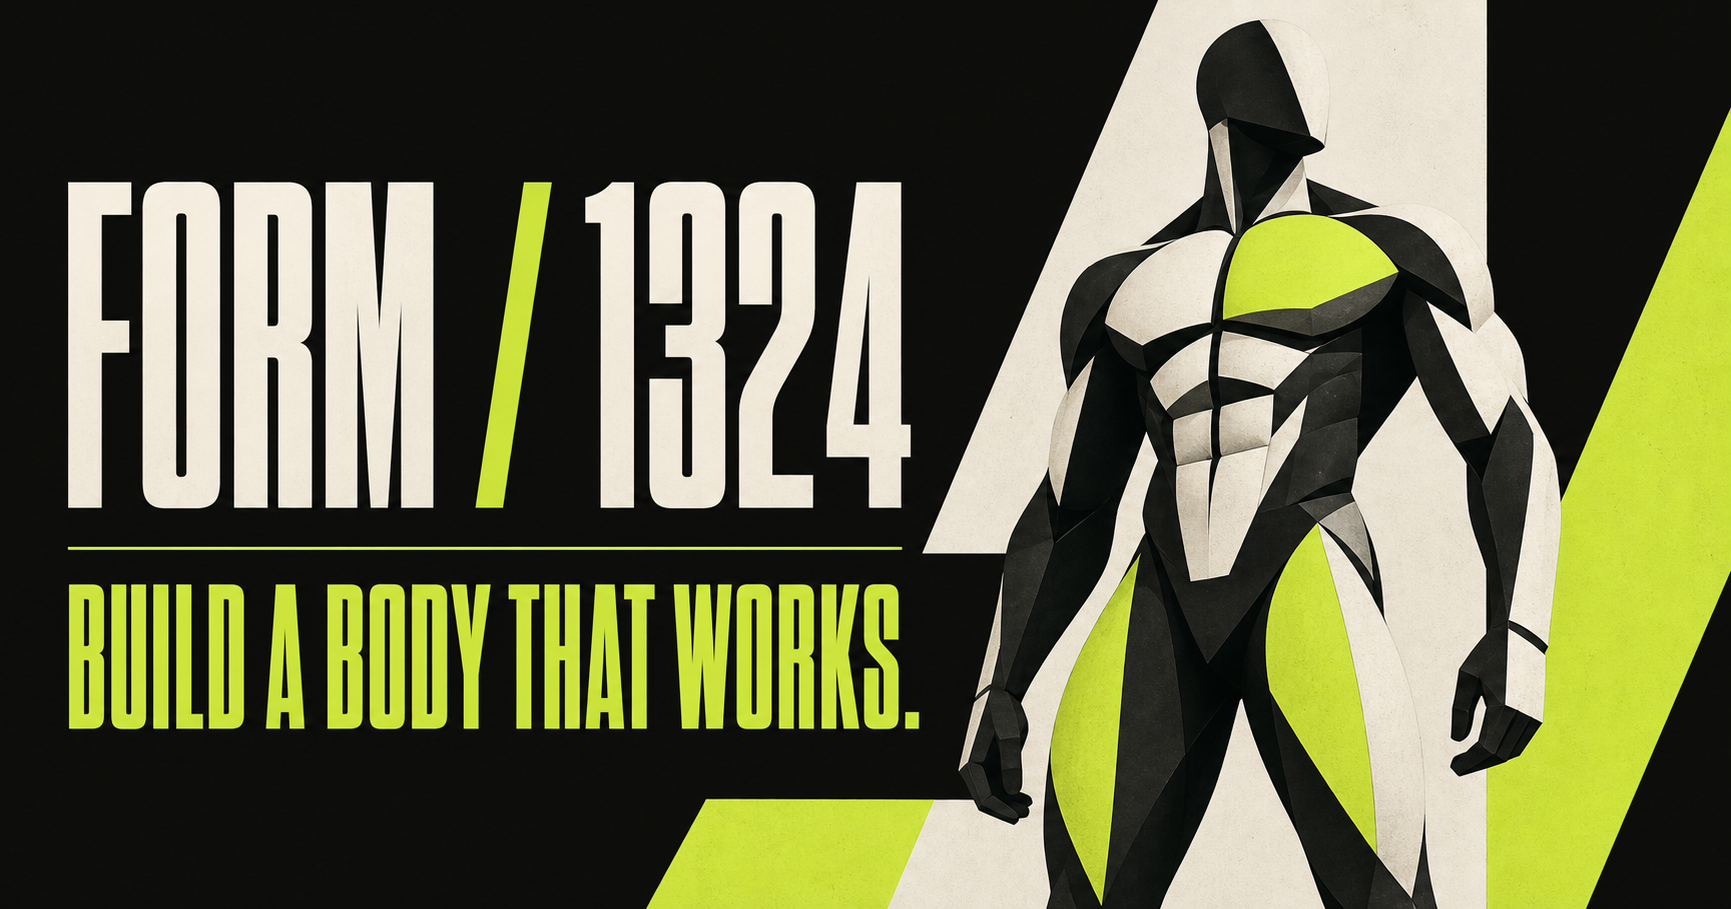
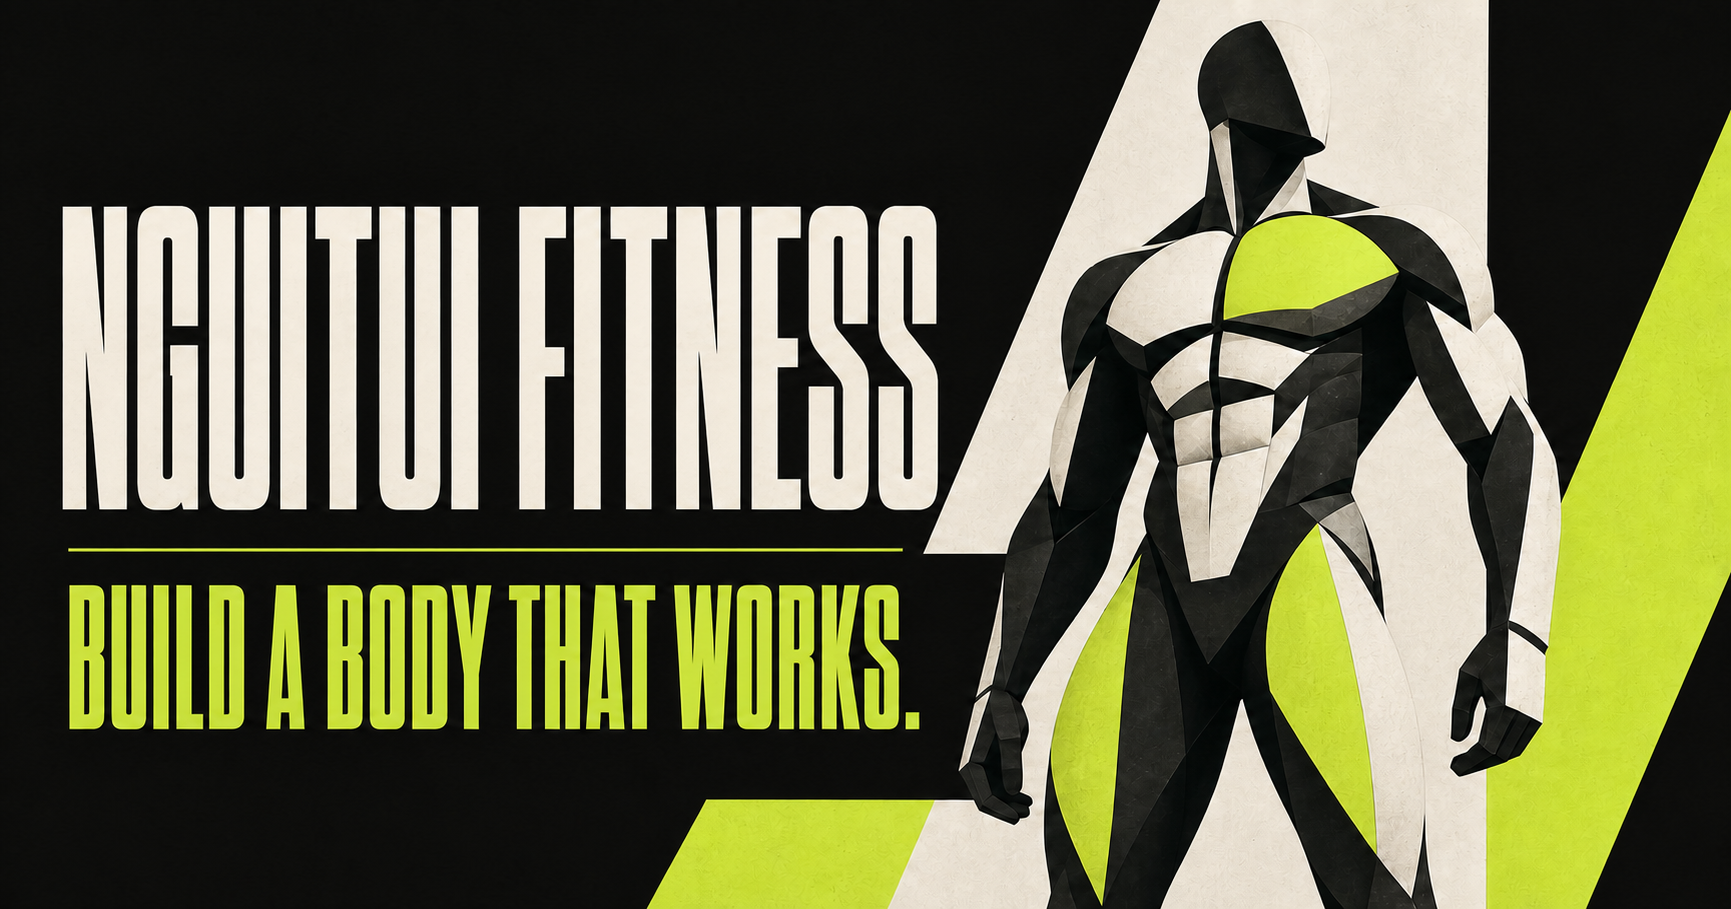
rebrand as Nguitui Fitness

diff --git a/deploy/app.js b/deploy/app.js
@@ -15,13 +15,13 @@ const heroMedia = `<div class="exercise-media"><img src="${MEDIA}videos/0025-EIe
 
 function shell() {
   root.innerHTML = `
-  <header class="site-header"><a class="brand" href="#top"><span>FORM</span><i>/</i><b>1324</b></a><nav><a href="#plans">Plans</a><a href="#library">Exercises</a><a href="#builder">Build your own</a></nav><a class="header-cta" href="/routine/">My routine <span>↗</span></a></header>
-  <section class="hero" id="top"><div class="hero-copy"><p class="kicker"><span></span> TRAIN WITH INTENT</p><h1>Build a body<br>that <em>works.</em></h1><p class="hero-sub">Proven plans when you want direction. A deep exercise library when you want control. No noise—just your next good session.</p><div class="hero-actions"><a href="#plans" class="button button--primary">Find my plan <span>→</span></a><a href="#builder" class="text-link">Build my own <span>↗</span></a></div><div class="hero-stats"><div><strong>1,324</strong><span>exercises</span></div><div><strong>10</strong><span>body areas</span></div><div><strong>30+</strong><span>equipment types</span></div></div></div><div class="hero-visual"><div class="hero-orbit hero-orbit--one"></div><div class="hero-orbit hero-orbit--two"></div>${heroMedia}<div class="floating-card floating-card--top"><small>TODAY / PUSH</small><strong>6 movements</strong><span>45 min · moderate</span></div><div class="floating-card floating-card--bottom"><div class="pulse-dot"></div><span><small>WEEKLY RHYTHM</small><strong>3 of 4 sessions</strong></span></div></div></section><div class="motion-ribbon"><div>TRAIN SMARTER <i>✦</i> MOVE BETTER <i>✦</i> BUILD CONSISTENCY <i>✦</i> 1,324 EXERCISES <i>✦</i> TRAIN SMARTER <i>✦</i></div></div>
+  <header class="site-header"><a class="brand" href="#top"><span>NGUITUI</span><i>/</i><b>FITNESS</b></a><nav><a href="#plans">Plans</a><a href="#library">Exercises</a><a href="#builder">Build your own</a></nav><a class="header-cta" href="/routine/">My routine <span>↗</span></a></header>
+  <section class="hero" id="top"><div class="hero-copy"><p class="kicker"><span></span> TRAIN WITH INTENT</p><h1>Build a body<br>that <em>works.</em></h1><p class="hero-sub">Proven plans when you want direction. A deep exercise library when you want control. No noise—just your next good session.</p><div class="hero-actions"><a href="#plans" class="button button--primary">Find my plan <span>→</span></a><a href="#builder" class="text-link">Build my own <span>↗</span></a></div><div class="hero-stats"><div><strong>1,324</strong><span>exercises</span></div><div><strong>10</strong><span>body areas</span></div><div><strong>30+</strong><span>equipment types</span></div></div></div><div class="hero-visual"><div class="hero-orbit hero-orbit--one"></div><div class="hero-orbit hero-orbit--two"></div>${heroMedia}<div class="floating-card floating-card--top"><small>TODAY / PUSH</small><strong>6 movements</strong><span>45 min · moderate</span></div><div class="floating-card floating-card--bottom"><div class="pulse-dot"></div><span><small>WEEKLY RHYTHM</small><strong>3 of 4 sessions</strong></span></div></div></section><div class="motion-ribbon"><div>NGUITUI FITNESS <i>✦</i> TRAIN SMARTER <i>✦</i> MOVE BETTER <i>✦</i> 1,324 EXERCISES <i>✦</i> NGUITUI FITNESS <i>✦</i></div></div>
   <section class="plans-section reveal" id="plans"><div class="section-heading"><div><p class="kicker"><span></span> READY-MADE PROGRAMS</p><h2>Pick your path.</h2></div><p>Clear schedules, smart exercise selection, and room to progress. Choose one and start today.</p></div><div class="plans-grid" id="plans-grid"></div></section>
   <section class="today-section reveal" id="today"><div class="section-heading section-heading--light"><div><p class="kicker"><span></span> YOUR TRAINING</p><h2 id="active-name">Nothing scheduled yet.</h2></div></div><div id="active-list" class="empty-training"><span>↗</span><p>Choose a ready-made plan above or build your own below. Your sessions will live here.</p></div></section>
   <section class="library-section reveal" id="library"><div class="section-heading"><div><p class="kicker"><span></span> EXPLORE THE LIBRARY</p><h2>Know every move.</h2></div><p>Search 1,324 movements by muscle, equipment, or name. Every exercise includes clear technique steps.</p></div><div class="filters"><label class="search-box"><span>⌕</span><input id="search" placeholder="Search exercises, muscles, targets..."></label><select id="body"><option value="">All body areas</option></select><select id="equipment"><option value="">All equipment</option></select></div><div class="exercise-grid" id="grid"></div><button class="load-more" id="more">Explore more exercises <span>↓</span></button></section>
   <section class="builder-section reveal" id="builder"><div class="builder-copy"><p class="kicker"><span></span> YOUR RULES</p><h2>Build your own.</h2><p>Pick movements from the library, arrange a focused session, and save it on this device.</p><ol><li><span>01</span> Search the exercise library</li><li><span>02</span> Tap + to add movements</li><li><span>03</span> Name it and save your plan</li></ol></div><div class="builder-board"><div class="builder-top"><label>PLAN NAME<input id="plan-name" value="My training week"></label><span id="count">0 / 12 MOVEMENTS</span></div><div class="builder-list" id="builder-list"></div><button class="save-plan" id="save">Save my plan <span>→</span></button></div></section>
-  <footer><a class="brand brand--footer" href="#top"><span>FORM</span><i>/</i><b>1324</b></a><p>Train with intent. Progress with patience.</p><div>Exercise data and demonstrations from <a href="https://github.com/hasaneyldrm/exercises-dataset">hasaneyldrm/exercises-dataset</a>.<br>Exercise media © <a href="https://gymvisual.com/">Gym visual</a>. Used with visible attribution.</div></footer><nav class="mobile-dock"><a href="#top"><b>⌂</b><span>Home</span></a><a href="#plans"><b>◫</b><span>Plans</span></a><a href="#library"><b>⌕</b><span>Explore</span></a><a href="/routine/"><b>↗</b><span>Routine</span></a></nav><div id="modal"></div>`;
+  <footer><a class="brand brand--footer" href="#top"><span>NGUITUI</span><i>/</i><b>FITNESS</b></a><p>Train with intent. Progress with patience.</p><div>Exercise data and demonstrations from <a href="https://github.com/hasaneyldrm/exercises-dataset">hasaneyldrm/exercises-dataset</a>.<br>Exercise media © <a href="https://gymvisual.com/">Gym visual</a>. Used with visible attribution.</div></footer><nav class="mobile-dock"><a href="#top"><b>⌂</b><span>Home</span></a><a href="#plans"><b>◫</b><span>Plans</span></a><a href="#library"><b>⌕</b><span>Explore</span></a><a href="/routine/"><b>↗</b><span>Routine</span></a></nav><div id="modal"></div>`;
 }
 
 function renderPlans() {

diff --git a/deploy/routine.js b/deploy/routine.js
@@ -16,7 +16,7 @@ function getRoutine(){
 function render(){
   const routine=getRoutine(), days=[routine.slice(0,2),routine.slice(2,4),routine.slice(4,6)], complete=routine.filter(x=>state.done.includes(x.id)).length;
   root.innerHTML=`
-  <header class="site-header"><a class="brand" href="/"><span>FORM</span><i>/</i><b>1324</b></a><nav><a href="/#plans">Plans</a><a href="/#library">Exercises</a><a href="#research">Split research</a></nav><a class="header-cta" href="/">Edit plan <span>↗</span></a></header>
+  <header class="site-header"><a class="brand" href="/"><span>NGUITUI</span><i>/</i><b>FITNESS</b></a><nav><a href="/#plans">Plans</a><a href="/#library">Exercises</a><a href="#research">Split research</a></nav><a class="header-cta" href="/">Edit plan <span>↗</span></a></header>
   <section class="routine-hero" id="top"><div><p class="kicker"><span></span> YOUR TRAINING ROOM</p><h1>Your<br><em>routine.</em></h1></div><div class="routine-summary"><span>ACTIVE PROGRAM</span><strong>${state.plan?.name||"The Foundation"}</strong><p>${routine.length} movements · 3 sessions · repeat weekly</p><div class="routine-progress"><i style="width:${routine.length?complete/routine.length*100:0}%"></i></div><small>${complete} of ${routine.length} movements complete</small></div></section><div class="motion-ribbon motion-ribbon--dark"><div>YOUR WEEK <i>✦</i> QUALITY REPS <i>✦</i> TRACK PROGRESS <i>✦</i> RECOVER HARD <i>✦</i> YOUR WEEK <i>✦</i></div></div>
   <section class="routine-workspace reveal"><aside class="week-rail"><p>THIS WEEK</p>${["MON","WED","FRI"].map((d,i)=>`<a href="#day-${i}"><b>${d}</b><span>Session ${String.fromCharCode(65+i)}<small>${days[i].length} exercises</small></span></a>`).join("")}<div class="recovery-note"><span>RECOVERY</span><strong>Tue · Thu · Weekend</strong><p>Easy movement, food and sleep do the adaptation work.</p></div></aside><div class="routine-days">${days.map((moves,di)=>`<article class="routine-day" id="day-${di}"><header><span>0${di+1} / ${["MON","WED","FRI"][di]}</span><h2>Session ${String.fromCharCode(65+di)}</h2><p>${["Strength","Volume","Technique"][di]} focus</p></header>${moves.map((x,i)=>exercise(x,i,di)).join("")}</article>`).join("")}</div></section>
   <section class="live-tips reveal"><div><p class="kicker"><span></span> WHILE YOU LIFT</p><h2>Good reps<br>over ego reps.</h2></div><div class="tips-grid">

diff --git a/app/training-app.tsx b/app/training-app.tsx
@@ -211,7 +211,7 @@ export default function TrainingApp() {
   return (
     <main>
       <header className="site-header">
-        <a className="brand" href="#top" aria-label="FORM 1324 home"><span>FORM</span><i>/</i><b>1324</b></a>
+        <a className="brand" href="#top" aria-label="Nguitui Fitness home"><span>NGUITUI</span><i>/</i><b>FITNESS</b></a>
         <nav aria-label="Primary navigation">
           <a href="#plans">Plans</a><a href="#library">Exercises</a><a href="#builder">Build your own</a>
         </nav>
@@ -242,7 +242,7 @@ export default function TrainingApp() {
           <span className="visual-label visual-label--legs">LEGS <i /></span>
         </div>
       </section>
-      <div className="motion-ribbon" aria-hidden="true"><div>TRAIN SMARTER <i>✦</i> MOVE BETTER <i>✦</i> BUILD CONSISTENCY <i>✦</i> 1,324 EXERCISES <i>✦</i> TRAIN SMARTER <i>✦</i> MOVE BETTER <i>✦</i></div></div>
+      <div className="motion-ribbon" aria-hidden="true"><div>NGUITUI FITNESS <i>✦</i> TRAIN SMARTER <i>✦</i> MOVE BETTER <i>✦</i> 1,324 EXERCISES <i>✦</i> NGUITUI FITNESS <i>✦</i> TRAIN SMARTER <i>✦</i></div></div>
 
       <section className="plans-section reveal" id="plans">
         <div className="section-heading">
@@ -338,7 +338,7 @@ export default function TrainingApp() {
       </section>
 
       <footer>
-        <a className="brand brand--footer" href="#top"><span>FORM</span><i>/</i><b>1324</b></a>
+        <a className="brand brand--footer" href="#top"><span>NGUITUI</span><i>/</i><b>FITNESS</b></a>
         <p>Train with intent. Progress with patience.</p>
         <div>Exercise data and demonstrations from <a href="https://github.com/hasaneyldrm/exercises-dataset" target="_blank" rel="noreferrer">hasaneyldrm/exercises-dataset</a>.<br />Exercise media © <a href="https://gymvisual.com/" target="_blank" rel="noreferrer">Gym visual</a>. Used with visible attribution.</div>
       </footer>

diff --git a/app/globals.css b/app/globals.css
@@ -382,7 +382,7 @@ body::before {
 .brand span { position: relative; }
 .brand span::after { content: ""; position: absolute; width: 6px; height: 6px; border-radius: 50%; background: var(--lime); right: -9px; top: -1px; box-shadow: 0 0 16px var(--lime); }
 .hero-copy { position: relative; isolation: isolate; }
-.hero-copy::before { content: "FORM"; position: absolute; left: -2vw; bottom: 2%; font-size: clamp(130px,20vw,360px); font-weight: 900; letter-spacing: -.08em; color: rgba(0,0,0,.026); z-index: -1; line-height: .7; }
+.hero-copy::before { content: "NGUITUI"; position: absolute; left: -2vw; bottom: 2%; font-size: clamp(100px,16vw,290px); font-weight: 900; letter-spacing: -.08em; color: rgba(0,0,0,.026); z-index: -1; line-height: .7; }
 .hero h1 { animation: heroRise .9s cubic-bezier(.2,.75,.2,1) both; }
 .hero-sub, .hero-actions, .hero-stats { animation: heroRise .9s .14s cubic-bezier(.2,.75,.2,1) both; }
 .hero-visual { background: radial-gradient(circle at 50% 45%,#343a2c 0,#1d201b 45%,#11130f 100%); }

diff --git a/app/layout.tsx b/app/layout.tsx
@@ -3,18 +3,18 @@ import "./globals.css";
 
 export const metadata: Metadata = {
   metadataBase: new URL("https://form-1324.vercel.app"),
-  title: "FORM / 1324 — Build a body that works",
+  title: "Nguitui Fitness — Build a body that works",
   description:
     "Visual, practical workout plans and a custom training plan builder powered by 1,324 exercises.",
   openGraph: {
-    title: "FORM / 1324",
+    title: "Nguitui Fitness",
     description: "Choose a proven plan or build your own. Train with intent.",
     type: "website",
-    images: [{ url: "/og.png", width: 1732, height: 909, alt: "FORM / 1324 — Build a body that works." }],
+    images: [{ url: "/og.png", width: 1732, height: 909, alt: "Nguitui Fitness — Build a body that works." }],
   },
   twitter: {
     card: "summary_large_image",
-    title: "FORM / 1324",
+    title: "Nguitui Fitness",
     description: "Choose a proven plan or build your own. Train with intent.",
     images: ["/og.png"],
   },

diff --git a/app/routine/page.tsx b/app/routine/page.tsx
@@ -97,7 +97,7 @@ export default function RoutinePage() {
   return (
     <main className="routine-page">
       <header className="site-header">
-        <a className="brand" href="/"><span>FORM</span><i>/</i><b>1324</b></a>
+        <a className="brand" href="/"><span>NGUITUI</span><i>/</i><b>FITNESS</b></a>
         <nav><a href="/#plans">Plans</a><a href="/#library">Exercises</a><a href="#research">Split research</a></nav>
         <a className="header-cta" href="/">Edit plan <span>↗</span></a>
       </header>

diff --git a/README.md b/README.md
@@ -1,4 +1,4 @@
-# FORM / 1324
+# Nguitui Fitness
 
 A visual workout planning experience powered by the
 [hasaneyldrm/exercises-dataset](https://github.com/hasaneyldrm/exercises-dataset).
